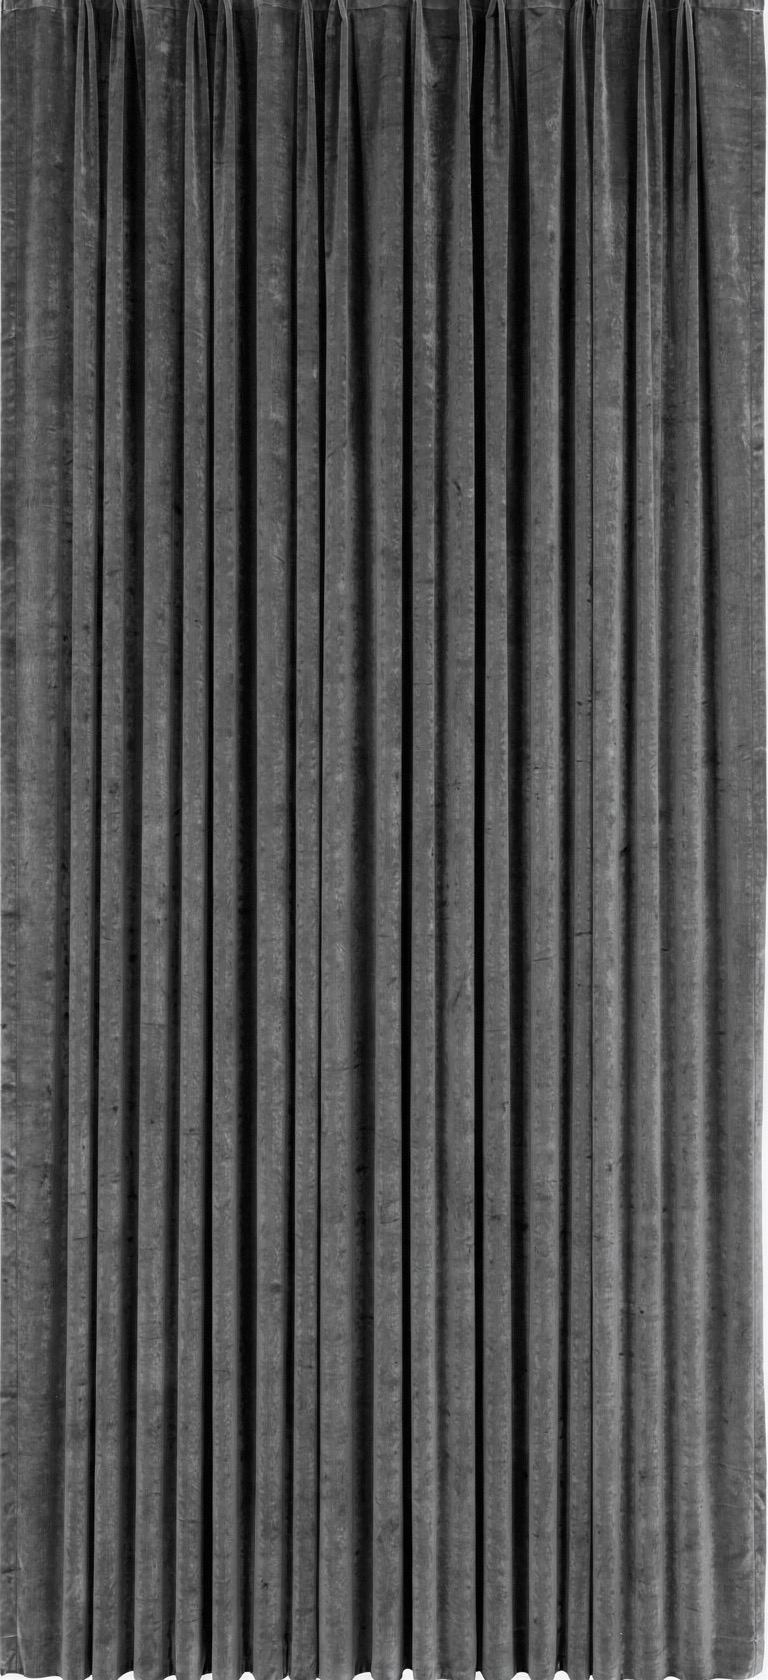
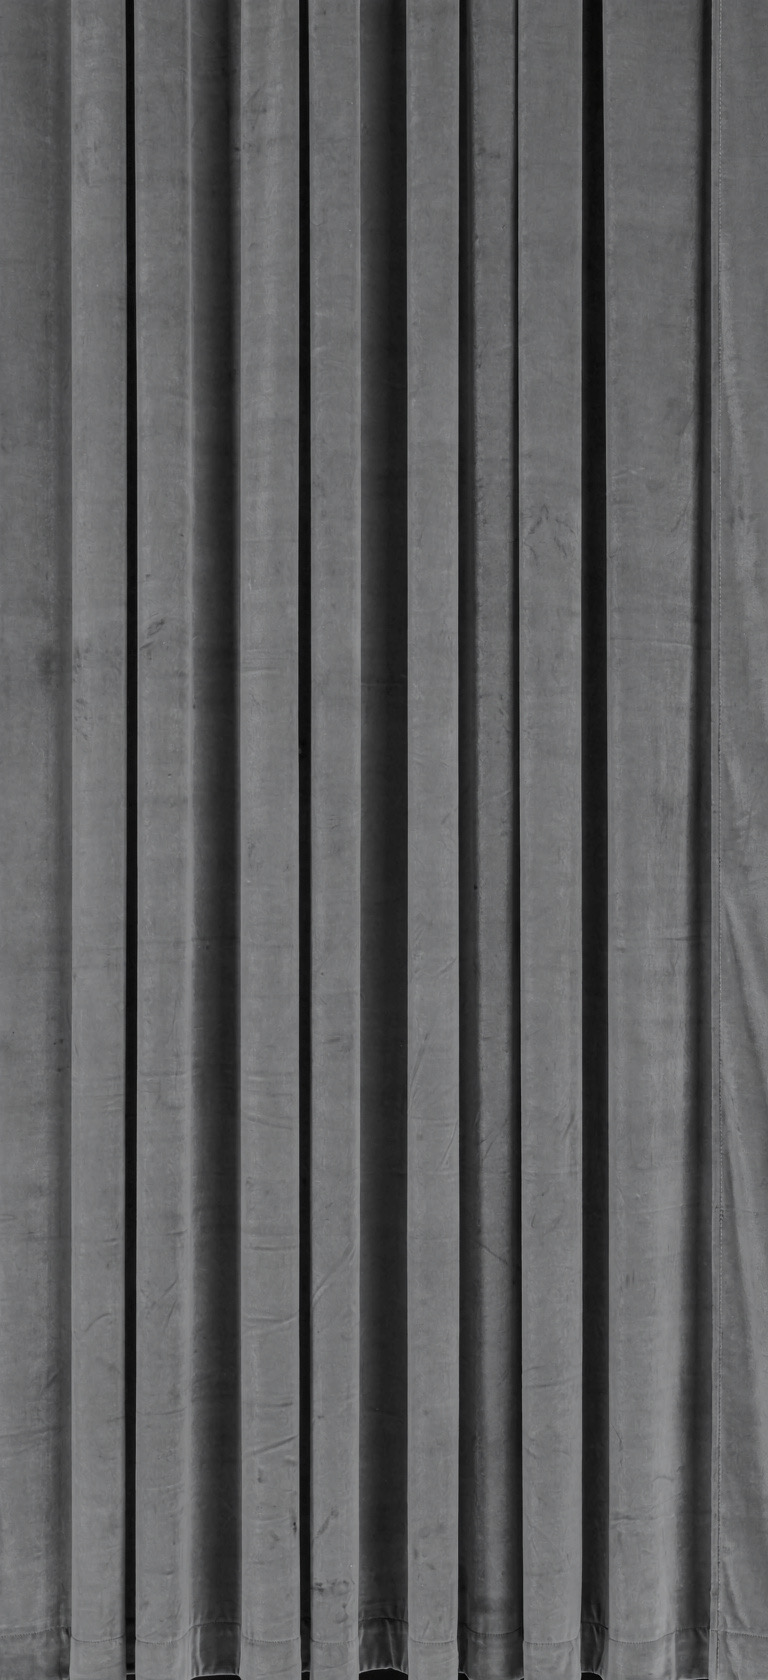
Lounge: new curtain JPEGs; scale down remote hand to avoid clip
Swap 10-12 pleat curtain assets from Supabase. Hand: ~38vw max 240px,
26vh cap, safe-area bottom margin, centered under TV.

diff --git a/src/components/lounge/LoungeTvRemoteHand.tsx b/src/components/lounge/LoungeTvRemoteHand.tsx
@@ -14,18 +14,19 @@ export function LoungeTvRemoteHand({ visible }: LoungeTvRemoteHandProps) {
       draggable={false}
       style={{
         position: 'fixed',
-        bottom: 0,
-        right: 'max(0px, calc(50% - 210px))',
-        width: 'min(62vw, 400px)',
+        left: '50%',
+        bottom: 'max(10px, env(safe-area-inset-bottom, 0px))',
+        width: 'min(38vw, 240px)',
+        maxWidth: 'calc(100vw - 32px)',
         height: 'auto',
-        maxHeight: '42vh',
+        maxHeight: 'min(26vh, 220px)',
         objectFit: 'contain',
-        objectPosition: 'right bottom',
+        objectPosition: 'center bottom',
         zIndex: 108,
         pointerEvents: 'none',
         userSelect: 'none',
         opacity: visible ? 1 : 0,
-        transform: visible ? 'translateY(0)' : 'translateY(10%)',
+        transform: visible ? 'translate(-38%, 0)' : 'translate(-38%, 10%)',
         transition: 'opacity 320ms ease, transform 400ms cubic-bezier(0.4, 0, 0.2, 1)',
       }}
     />

diff --git a/src/components/lounge/loungeTvAssets.ts b/src/components/lounge/loungeTvAssets.ts
@@ -11,6 +11,6 @@ export const LOUNGE_TV_REMOTE_HAND_SRC_REMOTE =
 
 /** Supabase originals (same files as bundled assets). */
 export const LOUNGE_CURTAIN_LEFT_SRC_REMOTE =
-  'https://hyycomvcaqxxvyrfupes.supabase.co/storage/v1/object/public/live-preview/wig-preview-live/Untitled%20folder/7_5x6EewPauDjPR9_Q2Yg_VDLVWNIw.jpeg';
+  'https://hyycomvcaqxxvyrfupes.supabase.co/storage/v1/object/public/live-preview/wig-preview-live/Untitled%20folder/1rmzkVKNKkP6hpLD9gOVF_41oSopA5.jpeg';
 export const LOUNGE_CURTAIN_RIGHT_SRC_REMOTE =
-  'https://hyycomvcaqxxvyrfupes.supabase.co/storage/v1/object/public/live-preview/wig-preview-live/Untitled%20folder/AkECgAvOFv5idrqpzkpAN_qHlhamE6.jpeg';
+  'https://hyycomvcaqxxvyrfupes.supabase.co/storage/v1/object/public/live-preview/wig-preview-live/Untitled%20folder/rnAnKKGlJDhcNOHJZNbRC_ftDz6eCk.jpeg';

diff --git a/motherboard/MEMORY.md b/motherboard/MEMORY.md
@@ -21959,3 +21959,11 @@ Pushed **`master`** + **`preview/mobile`** after regen user still replaces PNGs 
 **Context:** User said current curtains have too many pleats; refine from prior **14–18** guidance.
 
 **Change:** **`loungeCurtainFalPrompts.ts`** — style lock **10–12 folds**, ~**5–6 per half**; negatives for **15+ / dense micro-pleats**; Workflow B notes updated. Regen LEFT then RIGHT from LEFT PNG, replace **`lounge-curtain-*.jpeg`**.
+
+---
+
+## 2026-05-30 — Lounge curtains regen + hand scale fix
+
+**Context:** User supplied new 10–12 pleat curtain JPEG pair; hand/remote was clipped at bottom-right on mobile.
+
+**Changes:** Replaced **`lounge-curtain-left.jpeg`** / **`right.jpeg`** (Supabase **`1rmzkVKNKkP6hpLD9gOVF_41oSopA5`**, **`rnAnKKGlJDhcNOHJZNbRC_ftDz6eCk`**). **`LoungeTvRemoteHand`**: smaller **`min(38vw, 240px)`**, **`maxHeight min(26vh, 220px)`**, bottom safe inset, centered under TV via **`translate(-38%, 0)`** so full hand fits in viewport.
